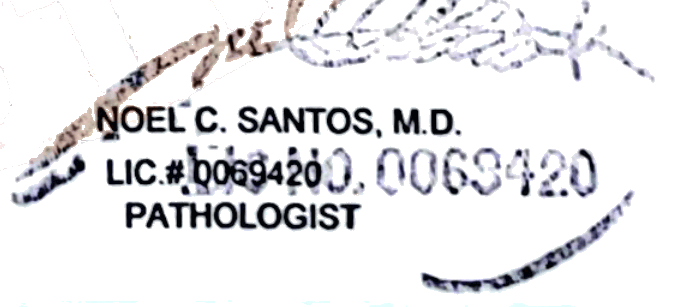
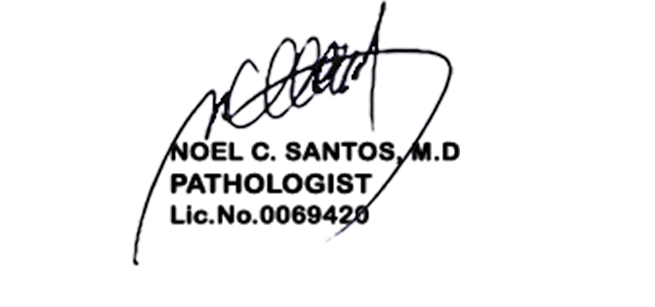
Updated lab report pdf signatures

diff --git a/reports/laboratory-pdf.php b/reports/laboratory-pdf.php
@@ -142,9 +142,9 @@ class LaboratoryPDF {
             $pdf->Cell(0, 1,'', 'T', $toBegin);
             $pdf->ln(57);
 
-            $pdf->Image(base_url(false) . '/images/nova-angela-buyagan.png', 11.5, 230, 50);
-            $pdf->Image(base_url(false) . '/images/angel-baquiran.png', 75, 230, 40);
-            $pdf->Image(base_url(false) . '/images/noel-c-santos.png', 140, 230, 60);
+            $pdf->Image(base_url(false) . '/images/nova-angela-buyagan-min.png', 11.5, 230, 50);
+            $pdf->Image(base_url(false) . '/images/angel-baquiran-min.png', 75, 230, 37);
+            $pdf->Image(base_url(false) . '/images/noel-c-santos-min.png', 120, 225, 65);
 
             $pdf->row('Computer-generated report.', '', '');
 
